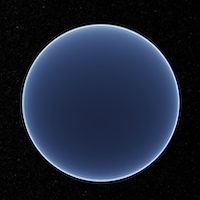
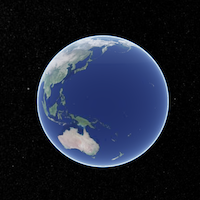
添加示例

diff --git a/pages/analysis/plane_video.html b/pages/analysis/plane_video.html
@@ -5,13 +5,12 @@
 </div>
 <script>
   let viewer = undefined
-  let cameraVideo = undefined
+  let planeVideo = undefined
   function initViewer() {
     viewer = new DC.Viewer('viewer-container')
-    let key = '0f7c1d161d7352116a21aacf0e9f44c1'
-    let baselayer = DC.ImageryLayerFactory.createTdtImageryLayer({
-      key,
-      style: 'img'
+    let baselayer = DC.ImageryLayerFactory.createBaiduImageryLayer({
+      style: 'dark',
+      crs:'WGS84'
     })
     viewer.addBaseLayer(baselayer)
     let layer1 = new DC.TilesetLayer('layer').addTo(viewer)
@@ -20,26 +19,24 @@
     )
     tileset.setHeight(-420)
     layer1.addOverlay(tileset)
-    let layer = new DC.CameraVideoLayer('video-layer').addTo(viewer)
+    let layer = new DC.PlaneVideoLayer('video-layer').addTo(viewer)
     let position =  new DC.Position(
       108.9594135,
       34.2184197,
-      100.25,
-      4.2,
-      -53.5,
+       50,
     )
     viewer.flyToPosition(
-      position,
+      "108.9596880295684,34.21388323284156,148.15,3.05,-11.5734",
       () => {
-        cameraVideo = new DC.CameraVideo(position,document.getElementById('video'),'examples/images/analysis/mask.png')
-        cameraVideo.setStyle({
-          fov: 30,
+        planeVideo = new DC.PlaneVideo(position,document.getElementById('video'))
+        planeVideo.setStyle({
+          fov: 60,
           far: 120,
           near: 1,
           aspectRatio: 1.3,
-          alpha:0.7
         })
-        layer.addOverlay(cameraVideo)
+        layer.addOverlay(planeVideo)
+        layer.showHelp(true,planeVideo)
       }
     )
 

diff --git a/pages/info/start.html b/pages/info/start.html
@@ -3,6 +3,11 @@
   let viewer = undefined
   function initViewer() {
     viewer = new DC.Viewer('viewer-container')
+    let baseLayer = new DC.ImageryLayerFactory.createAmapImageryLayer({
+      style:'img',
+      crs:"WGS84"
+    })
+    viewer.addBaseLayer(baseLayer)
   }
   DC.ready(initViewer)
 </script>

diff --git a/pages/analysis/camera_video.html b/pages/analysis/camera_video.html
@@ -21,7 +21,7 @@
     )
     tileset.setHeight(-420)
     layer1.addOverlay(tileset)
-    let layer = new DC.VideoLayer('layer').addTo(viewer)
+    let layer = new DC.CameraVideoLayer('video-layer').addTo(viewer)
     let position =  new DC.Position(
       108.9594135,
       34.2184197,
